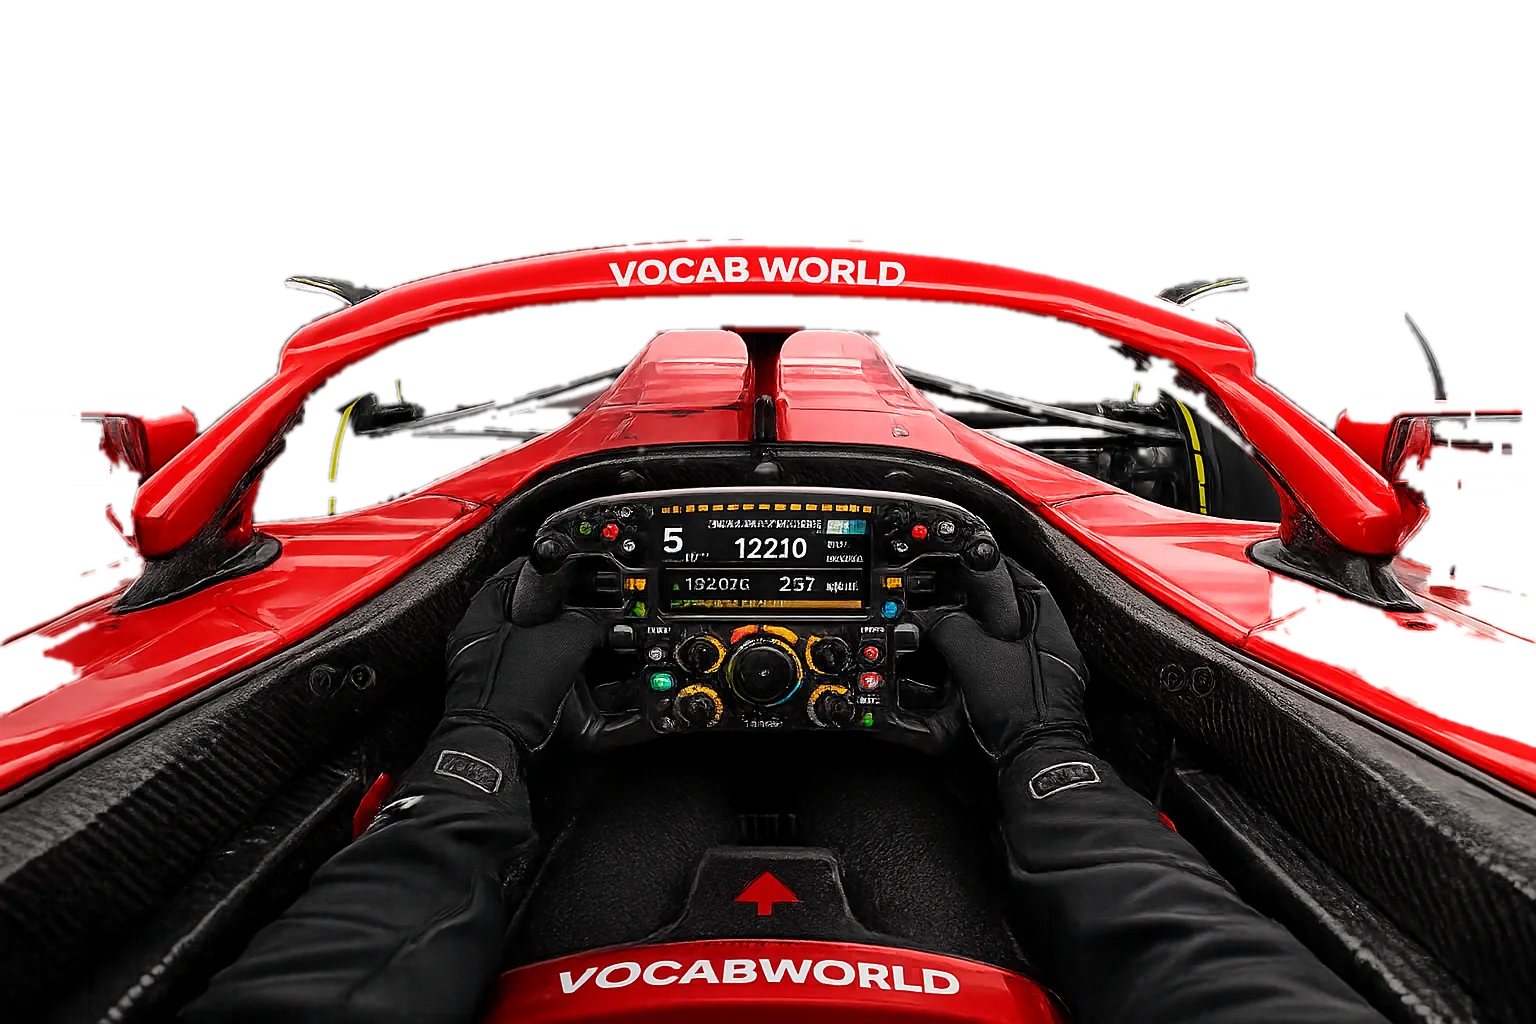
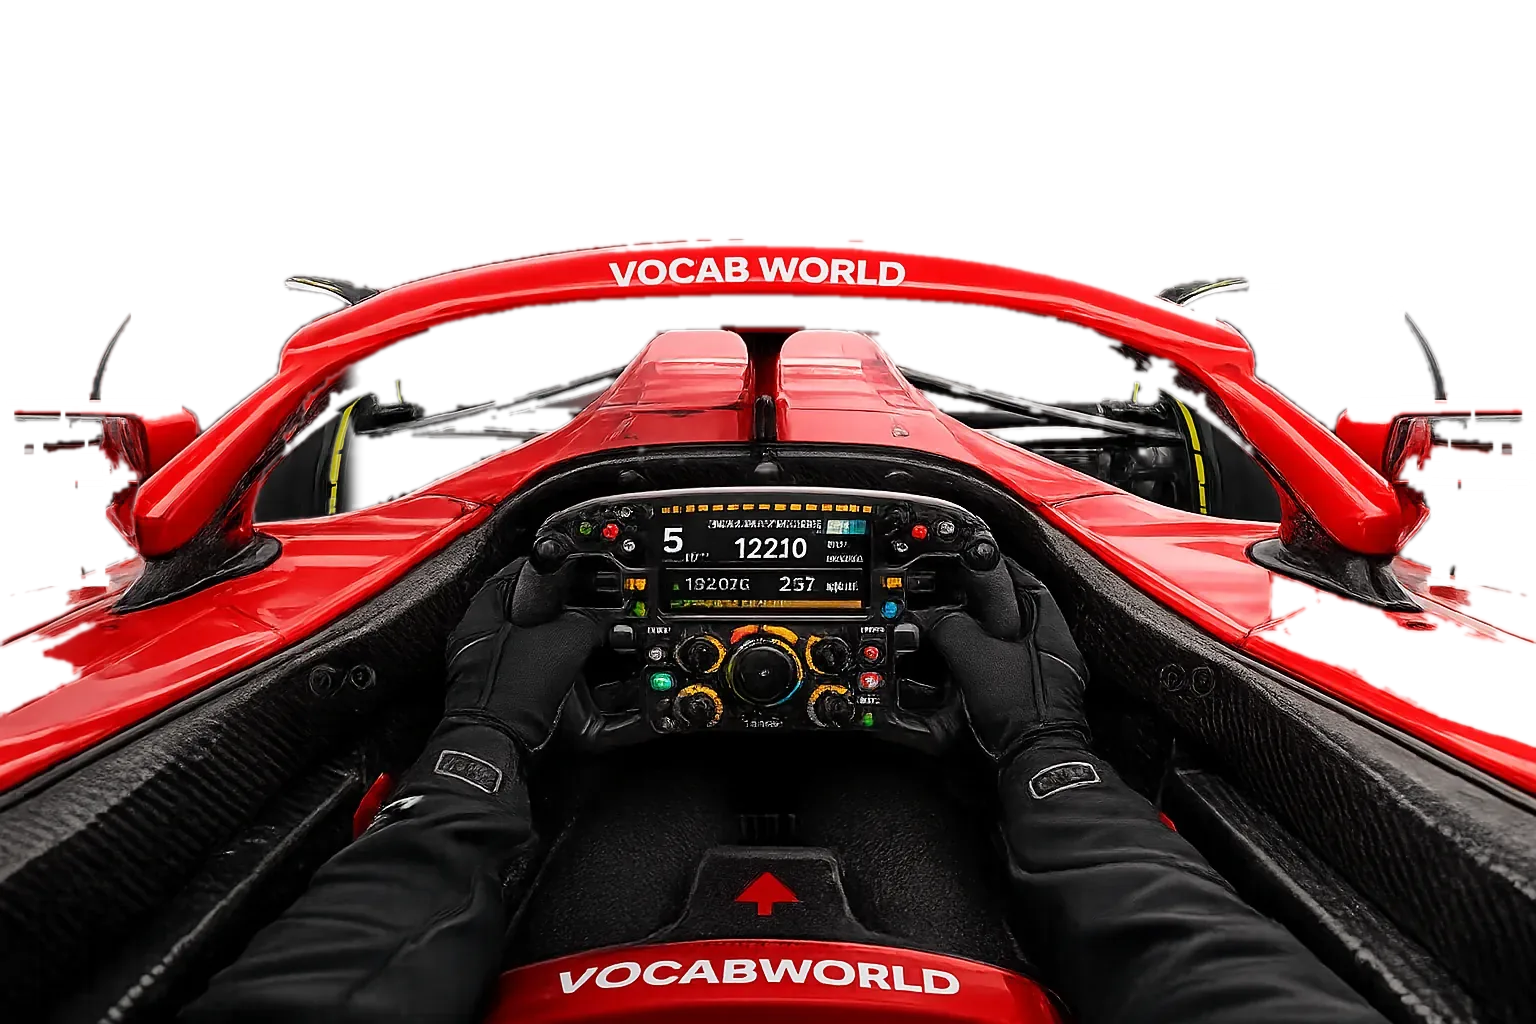
รอบ 915: โลก F1 — เติมก้านล้อฝั่งซ้ายให้เท่าฝั่งขวา + ย้ายปุ่มมุมกล้อง/ออกขึ้นแถวขวาบน + แถบเลี้ยวชิดซ้ายสุด + เพิ่มมุมกล้องถนนล้วน

diff --git a/handoff/TASKS.md b/handoff/TASKS.md
@@ -24,6 +24,9 @@
 - ✅ ชนหมา = ปรับ 10 เหรียญ ต่อครั้ง — เสร็จรอบ 830
 
 ### 📌 สรุปสถานะล่าสุด (2 ส.ค.) — อ่านก่อน
+- **รอบ 915 (2 ส.ค. · ผู้ใช้ชี้จากจอจริง 4 ข้อ: "ก้านล้อฝั่งซ้ายไม่ครบเหมือนขวา · ย้ายปุ่มมุมรถ/ออก ไปขวาบนก่อนถึงเหรียญ · แถบเลี้ยวไปซ้ายสุดแทนที่ปุ่มเดิม · เพิ่มมุมกล้องเห็นแต่ถนน"):** 🖼 **ก้านล้อ**: ต้นตอคือตอนคว้านพื้นหลังรอบ 905 กินยาง+ก้านปีกนกฝั่งซ้ายไปมากกว่าขวา (ภาพต้นฉบับมีครบทั้ง 2 ข้าง) → ภาพเกือบสมมาตรจึง **มิเรอร์ฝั่งขวามาอุดเฉพาะรูที่ซ้าย alpha ขาด** (union ไม่ทับของเดิม · โซน x 0-350 y 250-700 ฟุ้งขอบ 6px · สคริปต์ scratchpad `fix_left_arm.py`) แก้ที่ `img/f1/cockpit.webp` แล้วรัน `tools/f1_split_wheel.py` เจน `cockpit_body.webp` ใหม่ (ไม่แตะ `wheel.webp` ของรอบ 913 — โซนพวงมาลัยไม่โดนแพตช์) 🧭 **ปุ่ม**: `#f1-topright` แถว flex ขวาบน = [📷 มุมกล้อง][🏁 ออก][🪙 เหรียญ] — **ย้ายเหรียญเข้ามาเป็นลูกของแถว** จึงไม่ต้องเดาความกว้างเหรียญตอนเลขยาว · แถบเลี้ยว `left:118px→8px` ชิดซ้ายสุด + ยกมินิแมป `bottom:88→146px` พ้นกัน · จอเตี้ย ≤430px แถบเลี้ยวเหลือ 100px/knob 90px + ปุ่มบนย่อ 🛣 **มุมที่ 3 "มุมถนน"**: `camMode` เป็นวง 3 ค่า (`CAM_MODES`) ป้ายปุ่มบอกมุมถัดไปเสมอ · มุมถนน = จุดกล้องเดียวกับคนขับ แต่ไม่มี overlay/ล้อ/รถ + ยกสายตา `ROAD_EYE 1.45` กดลงน้อยลง `ROAD_DROP 1.5` FOV 74 (TUNE ZONE `ROAD_*`)
+  - ยืนยัน (server เอง :8795 · mock login · `_t.step`): วัด rect ครบทั้ง **1000×640 และ 812×375** — แถวขวาบนเรียง cam→exit→coins ถูกลำดับ อยู่ในจอ ไม่ทับคำศัพท์/เกจยาง แม้ตั้งเหรียญเป็น `+999,999` ✓ แถบเลี้ยว l=8 ไม่ทับมินิแมป/คันเร่ง/ตารางเวลา ✓ ลากสุดซ้าย-ขวา knob ไม่ล้นกรอบ (11≥8 · 255≤258) ✓ วนกล้อง 4 ครั้งกลับที่เดิม: cockpit(camY 1.04·overlay block·รถซ่อน) → chase(3.68·none·รถโชว์) → road(1.45·none·รถซ่อน·FOV 78) → cockpit ✓ ป้ายปุ่มเปลี่ยนถูกทุกสเต็ป · ภาพยืนยัน 4 ใบ: มุมถนนเห็นแทร็ก+รถบอตล้วนไม่มีอะไรบัง · **เทียบซ้าย vs มิเรอร์ขวาในภาพเกมจริง = ก้านดำ/แผงหลัง/วงเหลืองเหมือนกันแล้ว** ✓ console ไม่มี error · `node --check` ผ่านทั้งไฟล์จริงและ blob · ล้าง storage + ฆ่า server แล้ว
+  - ⚠ commit เขียน git index ตรง (blob = HEAD + 12 จุดของรอบนี้ · `blob915.py`) — session คู่ขนานกำลังทำ **หน้าปัดบนพวงมาลัย (`DASH_*`)** ค้าง working tree + มี `index_classic.html`/`js/city3d.js`/`main.js`/`online.js`/`state.js`/`ui.js`/`adventure3d.js` ของ session อื่นค้างอยู่ → ไม่แตะทั้งหมด
 - **รอบ 914 (2 ส.ค. · ผู้ใช้ต่อยอดรอบ 913: "มือสั่นตอนวิ่งบน kerb — ขยับชั้นพวงมาลัยเล็กน้อยตามการสั่นของกล้อง (รอบ 907)"):** 🫨🎡 `wheelTick()` ใน `js/f1_3d.js` เพิ่ม `translate()` เล็ก ๆ ก่อน `rotate()` — ใช้ **`shakeT`/`SHAKE_HZ` ตัวเดียวกับกล้อง** (`camTick` อัปเดต `shakeT` ก่อน `wheelTick` ในเฟรมเดียวกันอยู่แล้ว) จึงสั่นจังหวะเดียวกับกล้อง/โลก ไม่ใช่คนละจังหวะที่ดูหลอน · แอมพลิจูดใหม่ `WHEEL_SHAKE_KERB_PX 3.4` / `WHEEL_SHAKE_SAND_PX 2.0` (px จอ สั่นเบากว่า kerb เหมือนกล้อง) สเกลตามความเร็วแบบเดียวกับ `SHAKE_KERB_AMP` เดิม · แก้ optimization เดิม (ข้ามวาดถ้ามุมไม่เปลี่ยน) ให้ไม่ข้ามระหว่างสั่น + **บังคับวาดอีก 1 เฟรมตอนออกจาก kerb/ทราย** (flag `wheelShakeOn`) กัน translate ค้างเวลากลับเข้าแทร็กเรียบ
   - ยืนยัน (staging = `git archive HEAD` + ไฟล์ที่จะ commit เป๊ะ :8830 · mock login): บนแทร็กไม่มี `translate` เลย ✓ kerb มี `translate` ขยับทุกเฟรมทั้ง x/y (ทดสอบผ่าน `_t.step` ให้ `camTick` อัปเดต `shakeT` จริงเหมือนเกม) ✓ sand เบากว่า kerb (~1.0px เทียบ ~1.6-1.7px ที่ spd เดียวกัน) ✓ ออกจาก kerb → เฟรมถัดไป `translate` หายเกลี้ยงทันที แล้วเฟรมต่อไปมุมเดิม/ไม่มีสั่น = ข้ามวาดตามเดิม (ประหยัด) ✓ 812×375 วัด HUD ทุกกล่องยังอยู่ในจอครบ (transform นี้แตะแค่ `#f1-wheel` ไม่กระทบ layout) ✓ console ไม่มี error · `node --check` ผ่านทั้งไฟล์จริงและ blob · ล้าง storage + ฆ่า server แล้ว
   - ⚠ ไฟล์นี้มี session คู่ขนานแก้สด ๆ ระหว่างทำ (รีแฟกเตอร์รถบอต) — commit แบบเขียน git index ตรง = HEAD (รอบ 913 ของตัวเอง) + แพตช์ 4 จุดของรอบนี้เท่านั้น (`apply_mine2.py` ใน scratchpad) ไม่แตะ WIP ของเขา
